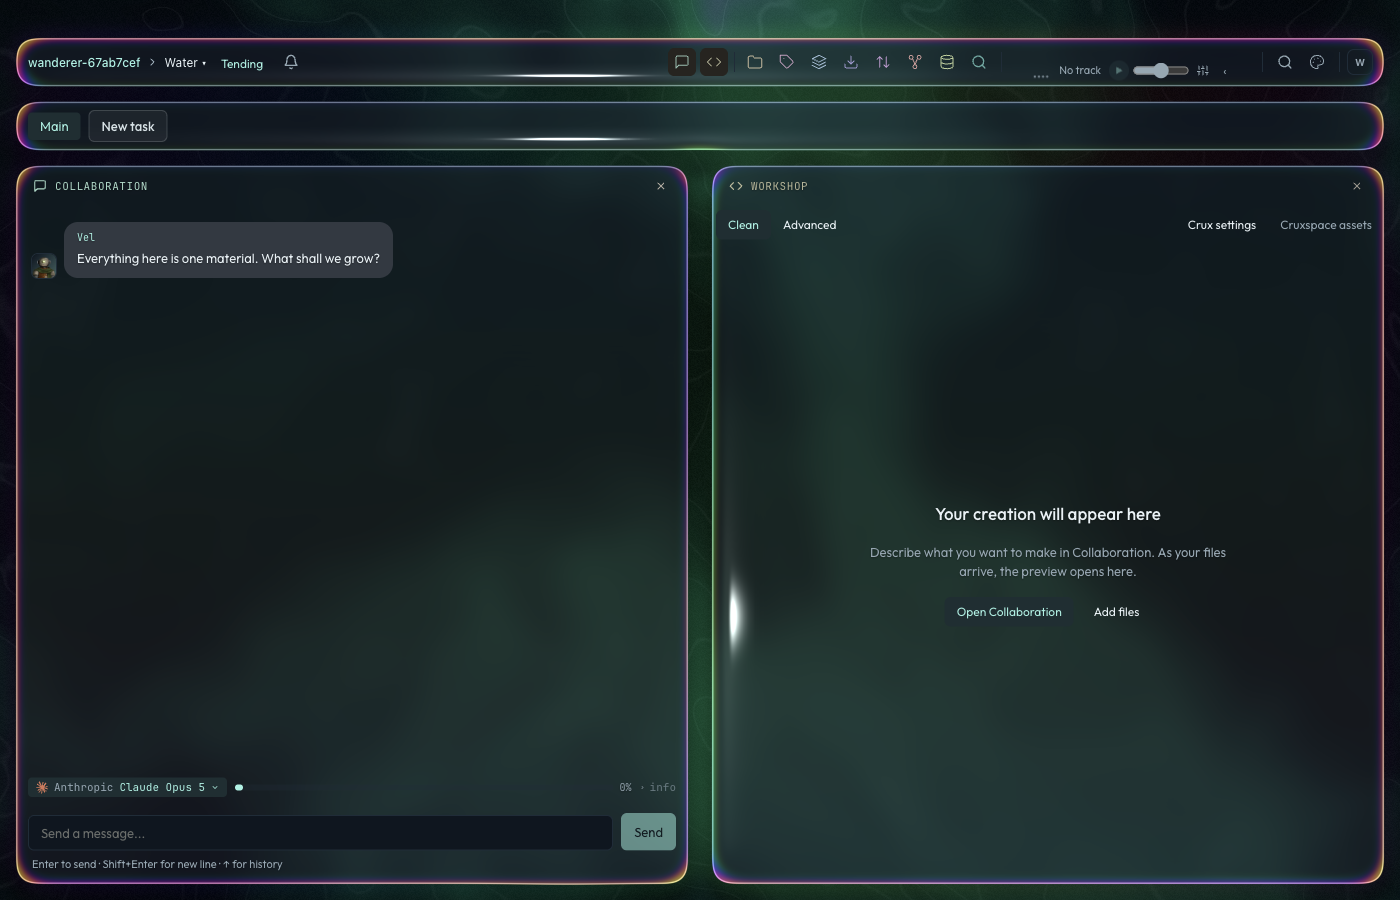
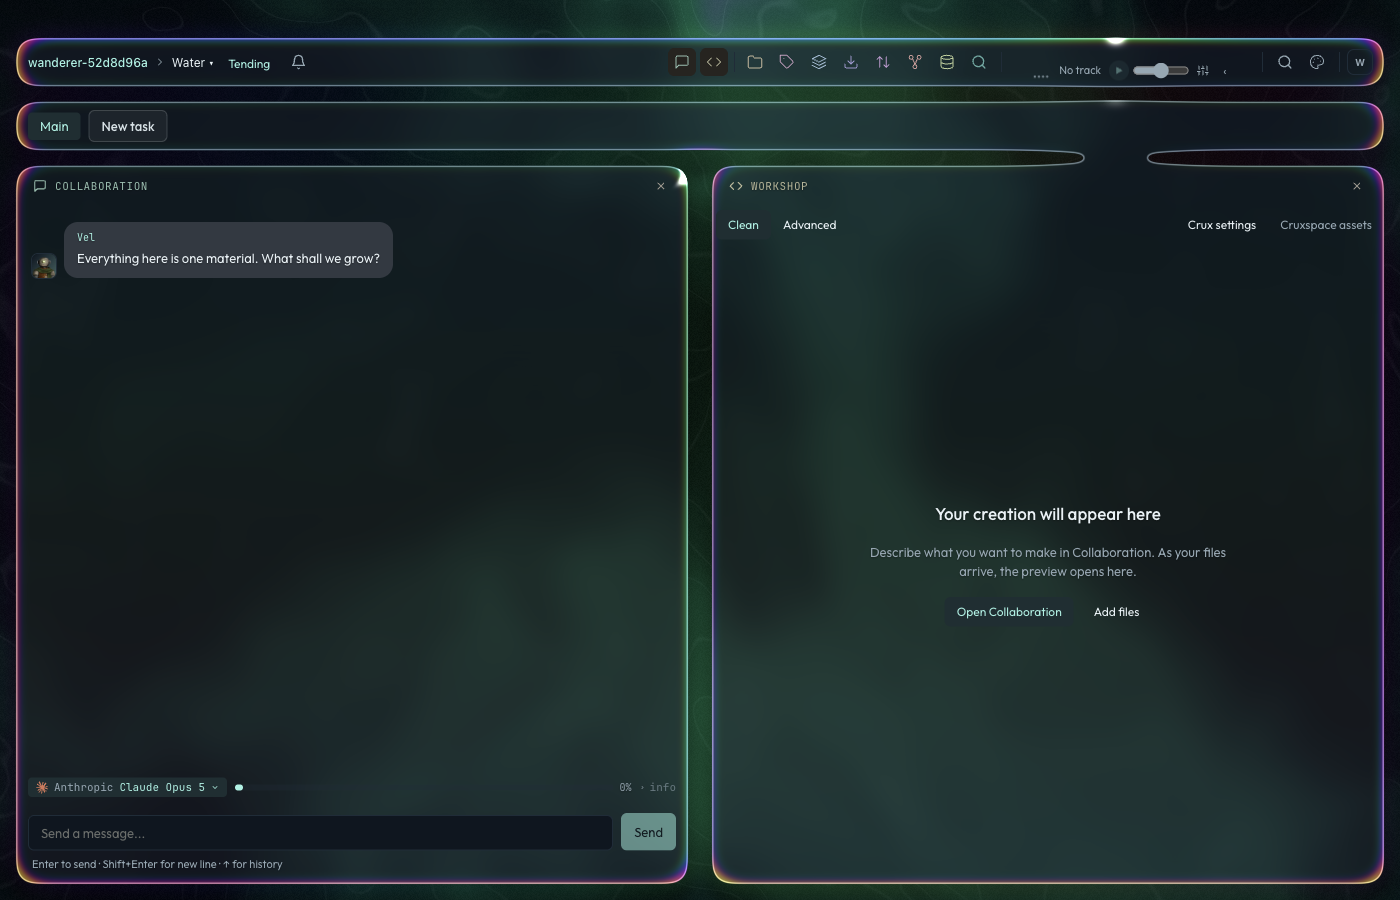
Evidence: the edge reflection on the rim; the glint shot spec

diff --git a/electron/e2e/plasma-glint-shot.spec.ts b/electron/e2e/plasma-glint-shot.spec.ts
@@ -1,0 +1,38 @@
+import { test } from '@playwright/test';
+import { launchApp } from './launch';
+import { createCrux, enterGarden } from './multi-crux-helpers';
+
+/** Evidence: the pointer highlight at sharpness 0 and at the Plasma Mood's value, over a pane. */
+const SHOTS = process.env.CRUX_TOUR_SHOTS ?? 'e2e/.results/tour';
+test('plasma glint shot', async () => {
+  test.setTimeout(180_000);
+  const { app, page } = await launchApp();
+  try {
+    await page.setViewportSize({ width: 1400, height: 900 });
+    await enterGarden(page);
+    await createCrux(page, 'Water');
+    // Just inside the Workshop pane's top edge: that edge faces the light held above the pointer.
+    const pane = await page.getByTestId('pane-body-workshop').boundingBox();
+    const x = pane!.x + pane!.width * 0.4;
+    const y = pane!.y + 70;
+    const setSharp = (v: string) =>
+      page.evaluate((v) => {
+        document.documentElement.style.setProperty('--plasma-highlight-sharpness', v);
+        document.dispatchEvent(new Event('palette-change'));
+      }, v);
+    await page.mouse.move(x - 40, y - 30);
+    await page.mouse.move(x, y, { steps: 8 });
+    await setSharp('0');
+    await page.waitForTimeout(900);
+    await page.screenshot({ path: `${SHOTS}/glint-0.png` });
+    await setSharp('1');
+    await page.waitForTimeout(900);
+    await page.screenshot({ path: `${SHOTS}/glint-1.png` });
+    await page.screenshot({
+      path: `${SHOTS}/glint-1-close.png`,
+      clip: { x: x - 300, y: y - 140, width: 600, height: 260 },
+    });
+  } finally {
+    await app.close();
+  }
+});
